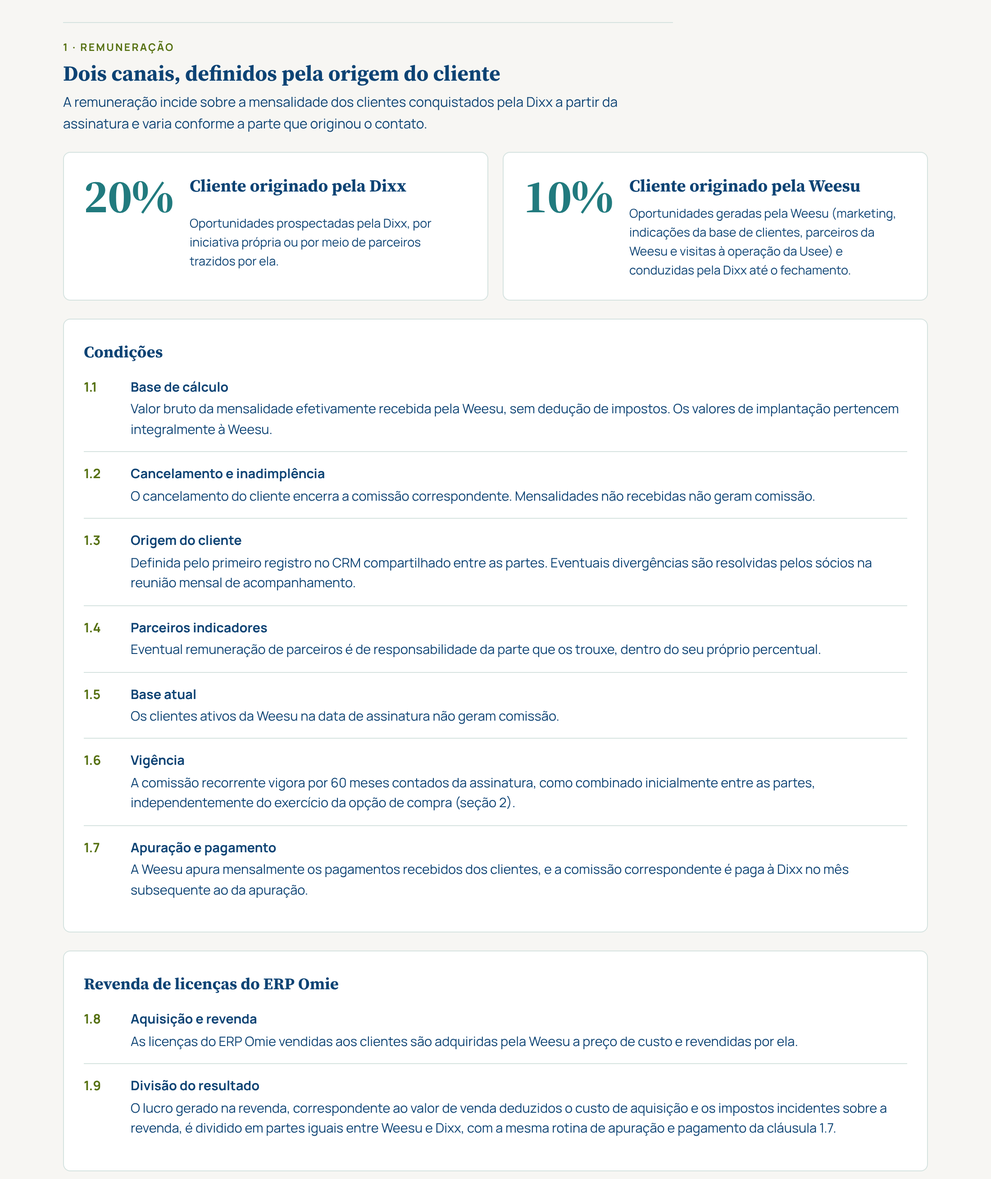
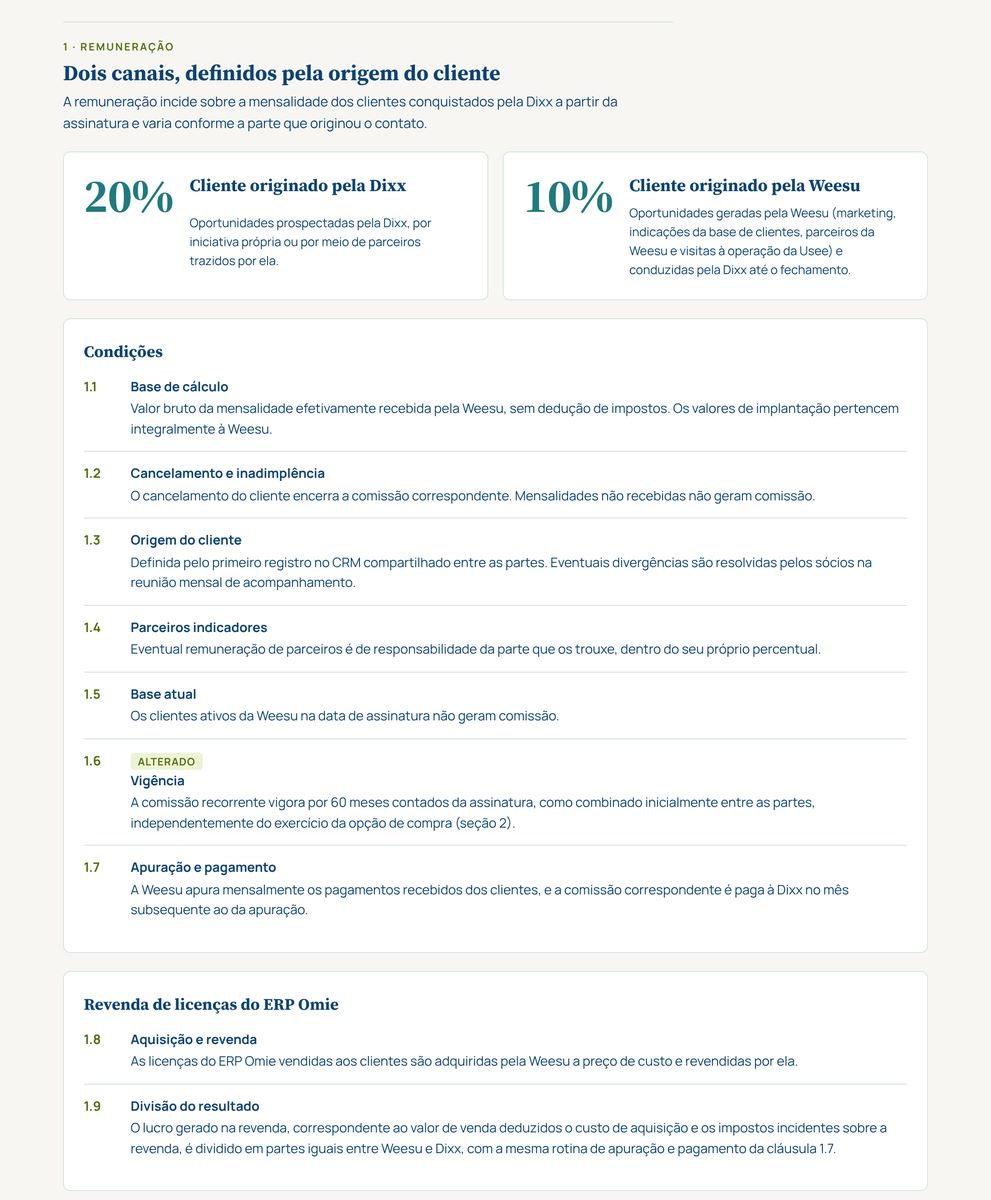
Tréplica: remove a seção Por que 60 meses e destaca as alterações frente à proposta da Weesu
Claude-Session: https://claude.ai/code/session_01Kbu7tZFgbQQE4WdNVw18PS

diff --git a/propostas/treplica-dixx.html b/propostas/treplica-dixx.html
@@ -111,7 +111,7 @@ footer{font-size:12.5px;color:var(--muted);border-top:1px solid var(--line);padd
     <button class="tab" role="tab" data-t="produtos" aria-selected="false">Produtos</button>
   </nav>
 </div></header>
-<main class="wrap" id="main"><div class="cover"><span class="eyebrow">Tréplica da Dixx</span><h2>Aceitamos o item 1 como proposto pela Weesu, com 60 meses de recorrência e aquisição de 1% ao ano</h2><p>A Dixx mantém integralmente as premissas do item 1 da proposta da Weesu: 20% sobre clientes originados pela Dixx, 10% sobre clientes originados pela Weesu, base de cálculo, regras de origem, parceiros, base atual, apuração e a revenda de licenças Omie. Propomos duas mudanças: a comissão recorrente volta a valer por 60 meses, como combinado inicialmente, e deixa de se encerrar com a opção de compra; e o gatilho único de R$ 950 mil vira cinco gatilhos anuais de 1%, o que permite às duas partes prever receita, aporte e contratações.</p></div><div class="keys"><div class="key"><b>20%</b><span>sobre a mensalidade de clientes originados pela Dixx</span></div><div class="key"><b>10%</b><span>sobre a mensalidade de clientes originados pela Weesu</span></div><div class="key"><b>1% ao ano</b><span>até 5% em 5 anos, R$ 190.000 por ano, valuation de R$ 19 mi</span></div><div class="key"><b>60 meses</b><span>de comissão recorrente, com ou sem o exercício da opção</span></div></div><div class="sec"><span class="eyebrow">1 · Remuneração</span><h3>Dois canais, definidos pela origem do cliente</h3><p>A remuneração incide sobre a mensalidade dos clientes conquistados pela Dixx a partir da assinatura e varia conforme a parte que originou o contato.</p></div><div class="two"><div class="canal"><span class="pc">20%</span><h4>Cliente originado pela Dixx</h4><p class="small">Oportunidades prospectadas pela Dixx, por iniciativa própria ou por meio de parceiros trazidos por ela.</p></div><div class="canal"><span class="pc">10%</span><h4>Cliente originado pela Weesu</h4><p class="small">Oportunidades geradas pela Weesu (marketing, indicações da base de clientes, parceiros da Weesu e visitas à operação da Usee) e conduzidas pela Dixx até o fechamento.</p></div></div><div class="card"><h4>Condições</h4><ol class="cl"><li data-n="1.1"><span><b>Base de cálculo</b>Valor bruto da mensalidade efetivamente recebida pela Weesu, sem dedução de impostos. Os valores de implantação pertencem integralmente à Weesu.</span></li><li data-n="1.2"><span><b>Cancelamento e inadimplência</b>O cancelamento do cliente encerra a comissão correspondente. Mensalidades não recebidas não geram comissão.</span></li><li data-n="1.3"><span><b>Origem do cliente</b>Definida pelo primeiro registro no CRM compartilhado entre as partes. Eventuais divergências são resolvidas pelos sócios na reunião mensal de acompanhamento.</span></li><li data-n="1.4"><span><b>Parceiros indicadores</b>Eventual remuneração de parceiros é de responsabilidade da parte que os trouxe, dentro do seu próprio percentual.</span></li><li data-n="1.5"><span><b>Base atual</b>Os clientes ativos da Weesu na data de assinatura não geram comissão.</span></li><li data-n="1.6"><span><b>Vigência</b>A comissão recorrente vigora por 60 meses contados da assinatura, como combinado inicialmente entre as partes, independentemente do exercício da opção de compra (seção 2).</span></li><li data-n="1.7"><span><b>Apuração e pagamento</b>A Weesu apura mensalmente os pagamentos recebidos dos clientes, e a comissão correspondente é paga à Dixx no mês subsequente ao da apuração.</span></li></ol></div><div class="card"><h4>Revenda de licenças do ERP Omie</h4><ol class="cl"><li data-n="1.8"><span><b>Aquisição e revenda</b>As licenças do ERP Omie vendidas aos clientes são adquiridas pela Weesu a preço de custo e revendidas por ela.</span></li><li data-n="1.9"><span><b>Divisão do resultado</b>O lucro gerado na revenda, correspondente ao valor de venda deduzidos o custo de aquisição e os impostos incidentes sobre a revenda, é dividido em partes iguais entre Weesu e Dixx, com a mesma rotina de apuração e pagamento da cláusula 1.7.</span></li></ol></div><div class="sec"><span class="eyebrow">2 · Participação societária</span><h3>Opção de compra de 5% da Weesu, em gatilhos anuais de 1%</h3><p>A Dixx poderá adquirir 5% do capital da Weesu ao valuation de R$ 19.000.000, no valor total de R$ 950.000, em cinco lotes anuais de 1% (R$ 190.000 cada). O lote de cada ano é liberado quando as comissões pagas pela Weesu à Dixx naquele ano de contrato somarem R$ 190.000. Assim, as duas partes sabem quanto e quando a participação será adquirida: a Dixx consegue prever a receita e planejar as contratações do time, e a Weesu recebe o aporte em parcelas anuais ligadas ao resultado. <b>A comissão recorrente segue até completar os 60 meses de vigência</b>, com ou sem o exercício das opções.</p></div><div class="steps"><div class="step"><span class="n">1</span><h4>Assinatura</h4><p class="small">Início da remuneração recorrente pelos dois canais e do primeiro ano de contrato.</p></div><div class="step"><span class="n">2</span><h4>Gatilho anual de R$ 190 mil</h4><p class="small">Comissões pagas no ano de contrato atingem o valor de 1% das cotas.</p></div><div class="step"><span class="n">3</span><h4>Carência de 60 dias</h4><p class="small">Prazo para a Dixx comprar o lote de 1% daquele ano.</p></div><div class="step"><span class="n">4</span><h4>5% em 5 anos</h4><p class="small">Um gatilho por ano até completar 5%. A recorrência segue até o mês 60.</p></div></div><div class="card"><h4>Condições</h4><ol class="cl"><li data-n="2.1"><span><b>Objeto e preço</b>5% do capital social da Weesu, ao valuation fixo de R$ 19.000.000, totalizando R$ 950.000, divididos em cinco lotes anuais de 1%, de R$ 190.000 cada.</span></li><li data-n="2.2"><span><b>Gatilho anual</b>O lote de 1% de cada ano de contrato se constitui quando o acumulado de comissões efetivamente pagas pela Weesu à Dixx naquele ano atingir R$ 190.000. Os anos de contrato são contados da assinatura e de cada aniversário.</span></li><li data-n="2.3"><span><b>Prazo e carência</b>Cada gatilho deve ser atingido dentro do respectivo ano de contrato. Atingido o gatilho, a Dixx dispõe de 60 dias de carência para exercer a compra do lote daquele ano.</span></li><li data-n="2.4"><span><b>Recorrência mantida</b>O exercício das opções não encerra a comissão recorrente, que segue até o fim dos 60 meses de vigência (cláusula 1.6). O fim de cada carência encerra apenas o prazo para comprar o lote daquele ano.</span></li><li data-n="2.5"><span><b>Gatilho anual não atingido</b>Não atingido o gatilho no ano de contrato, apura-se o saldo proporcional: a Dixx poderá adquirir a participação proporcional ao acumulado de comissões pagas no ano em relação a R$ 190.000 e, a seu critério, realizar o aporte complementar até completar o lote de 1%. O saldo não adquirido pode ser somado ao lote do ano seguinte, sempre ao valuation de R$ 19.000.000 e até o limite total de 5%.</span></li><li data-n="2.6"><span><b>Acordo de sócios</b>O primeiro exercício será formalizado em acordo de sócios, com regras de governança e de saída a serem negociadas entre as partes, que valem também para os lotes seguintes.</span></li></ol></div><div class="sec"><span class="eyebrow">Por que 60 meses</span><h3>Recorrência por 60 meses e 1% ao ano: a Dixx consegue prever receita e contratar</h3><p>A Dixx custeia 100% da equipe comercial. Na réplica, pelos números do plano comercial, o gatilho único de R$ 950 mil seria atingido por volta do mês 23 e a recorrência terminaria no mês 25, quando a carteira ainda está crescendo e o time recém-formado começa a produzir. Com 60 meses e gatilhos anuais, a operação se paga, cada lote de 1% é comprado com a receita do próprio ano e o time pode ser dimensionado com antecedência.</p></div><div class="card"><h4>5 anos, mesmas metas e mesmo time, mantido até o mês 60</h4><div class="scroll"><table class="t"><thead><tr><th></th><th class="r">Réplica da Weesu<br>gatilho único, recorrência até o gatilho</th><th class="r">Tréplica da Dixx<br>1% ao ano, recorrência por 60 meses</th></tr></thead><tbody><tr><td>Fim da recorrência</td><td class="r">mês 25 (nov/28)</td><td class="r">mês 60 (out/31)</td></tr><tr><td>Comissões recebidas pela Dixx</td><td class="r">R$ 1,16 mi</td><td class="r">R$ 6,84 mi</td></tr><tr><td>Custo do time comercial da Dixx</td><td class="r">R$ 4,98 mi</td><td class="r">R$ 4,98 mi</td></tr><tr class="hl"><td>Resultado da Dixx antes da compra das cotas</td><td class="r">−R$ 3,83 mi</td><td class="r">+R$ 1,85 mi</td></tr><tr><td>Maior investimento acumulado da Dixx</td><td class="r">R$ 3,83 mi, sem retorno<br><span class="small muted">desmontando o time no mês 25, ainda −R$ 0,15 mi</span></td><td class="r">R$ 275 mil, recuperado em 2028<br><span class="small muted">R$ 539 mil com a compra anual das cotas</span></td></tr><tr><td>Compra das cotas</td><td class="r">R$ 950.000 de uma vez, no mês 25</td><td class="r">R$ 190.000 por ano, em 5 anos</td></tr><tr class="hl"><td>Resultado da Dixx depois de comprar os 5%</td><td class="r">−R$ 4,78 mi</td><td class="r">+R$ 0,90 mi</td></tr><tr><td>Comissão mensal da Dixx</td><td class="r">R$ 84 mil no mês 24, depois zero</td><td class="r">sobe até R$ 237 mil no mês 60</td></tr></tbody></table></div><p class="small muted">Premissas do plano comercial da Dixx: meta de R$ 15 mil de NMRR em nov/26, crescendo 5% ao mês no ano 1; churn de 1% ao mês; time com SDR, Closer e Executivo de Negócios a salários de mercado, com encargos, crescendo até 7 pessoas no ano 5; 20% sobre a captação direta e 10% líquidos sobre as indicações. Valores nominais. Na réplica, o time é mantido até o mês 60 mesmo após o fim da recorrência.</p></div><div class="card"><h4>Calendário de aquisição: 1% ao ano</h4><div class="scroll"><table class="t"><thead><tr><th>Ano de contrato</th><th class="r">Comissões do ano</th><th class="r">Gatilho de R$ 190 mil atingido</th><th class="r">Compra</th><th class="r">Participação acumulada</th></tr></thead><tbody><tr><td>Ano 1 · nov/26 a out/27</td><td class="r">R$ 288 mil</td><td class="r">mês 10 (ago/27)</td><td class="r">1% · R$ 190.000</td><td class="r">1%</td></tr><tr><td>Ano 2 · nov/27 a out/28</td><td class="r">R$ 782 mil</td><td class="r">mês 4 (fev/28)</td><td class="r">1% · R$ 190.000</td><td class="r">2%</td></tr><tr><td>Ano 3 · nov/28 a out/29</td><td class="r">R$ 1,31 mi</td><td class="r">mês 3 (jan/29)</td><td class="r">1% · R$ 190.000</td><td class="r">3%</td></tr><tr><td>Ano 4 · nov/29 a out/30</td><td class="r">R$ 1,91 mi</td><td class="r">mês 2 (dez/29)</td><td class="r">1% · R$ 190.000</td><td class="r">4%</td></tr><tr><td>Ano 5 · nov/30 a out/31</td><td class="r">R$ 2,55 mi</td><td class="r">mês 2 (dez/30)</td><td class="r">1% · R$ 190.000</td><td class="r">5%</td></tr></tbody></table></div><p class="small muted">Pelo plano comercial, a Dixx atinge o gatilho de todos os anos, e cada vez mais cedo. Com a compra de 1% ao ano, o maior investimento acumulado da Dixx fica em R$ 539 mil e o resultado em 5 anos, já com os 5% comprados, é de +R$ 0,90 mi.</p></div><div class="note"><h4>Para a Weesu, a tréplica não muda o percentual</h4><p>A Weesu continua com 80% a 90% de cada mensalidade nova, sem custo fixo comercial, e paga só sobre mensalidade recebida. O que muda é que a Dixx consegue sustentar o time por todo o período em que ele gera os clientes.</p></div><div class="sec"><span class="eyebrow">3 · Responsabilidades</span><h3>Cada parte investe naquilo que domina</h3></div><div class="two"><div class="card"><h4>Dixx</h4><ul class="small" style="padding-left:18px;display:flex;flex-direction:column;gap:5px"><li>Estruturação e custeio integral da equipe comercial, cujo dimensionamento é decisão da Dixx</li><li>Processo comercial, CRM, metas e rotina de acompanhamento</li><li>Prospecção ativa e parcerias de originação de clientes</li><li>Condução das vendas das oportunidades geradas pela Weesu</li><li>Relatório mensal de resultados por canal</li></ul></div><div class="card"><h4>Weesu</h4><ul class="small" style="padding-left:18px;display:flex;flex-direction:column;gap:5px"><li>Produtos Seenc (WMS), Hub, Luwee e Weello e sua evolução</li><li>Marketing, marca e geração de demanda</li><li>Implantação, suporte e sucesso do cliente</li><li>Acesso à operação da Usee para visitas de clientes em negociação</li><li>Apuração e pagamento mensal das comissões</li></ul></div></div><div class="note"><h4>Próximos passos</h4><p>Apreciação desta tréplica pela Weesu, reunião entre os sócios para alinhamento dos pontos em aberto e formalização em contrato de parceria comercial com instrumento de opção de compra, elaborado pelas assessorias jurídicas das partes.</p></div><footer>Dixx · tréplica à proposta de parceria comercial da Weesu · outubro de 2026. Documento para discussão entre as partes, sem efeito contratual até a assinatura dos instrumentos definitivos.</footer></main>
+<main class="wrap" id="main"><div class="cover"><span class="eyebrow">Tréplica da Dixx</span><h2>Aceitamos o item 1 como proposto pela Weesu, com 60 meses de recorrência e aquisição de 1% ao ano</h2><p>A Dixx mantém integralmente as premissas do item 1 da proposta da Weesu: 20% sobre clientes originados pela Dixx, 10% sobre clientes originados pela Weesu, base de cálculo, regras de origem, parceiros, base atual, apuração e a revenda de licenças Omie. Propomos duas mudanças: a comissão recorrente volta a valer por 60 meses, como combinado inicialmente, e deixa de se encerrar com a opção de compra; e o gatilho único de R$ 950 mil vira cinco gatilhos anuais de 1%, o que permite às duas partes prever receita, aporte e contratações. Todo o restante da proposta da Weesu está mantido; o quadro abaixo mostra cada alteração.</p></div><div class="keys"><div class="key"><b>20%</b><span>sobre a mensalidade de clientes originados pela Dixx</span></div><div class="key"><b>10%</b><span>sobre a mensalidade de clientes originados pela Weesu</span></div><div class="key"><b>1% ao ano</b><span>até 5% em 5 anos, R$ 190.000 por ano, valuation de R$ 19 mi</span></div><div class="key"><b>60 meses</b><span>de comissão recorrente, com ou sem o exercício da opção</span></div></div><div class="card"><h4>O que muda em relação à proposta da Weesu</h4><div class="scroll"><table class="t"><thead><tr><th>Ponto</th><th>Proposta da Weesu</th><th>Tréplica da Dixx</th><th>Cláusulas</th></tr></thead><tbody><tr class="hl"><td>Vigência da recorrência</td><td>Até o exercício da opção ou o fim da carência, o que ocorrer primeiro (no máximo cerca de 26 meses)</td><td>60 meses contados da assinatura, como combinado inicialmente, com ou sem o exercício da opção</td><td>1.6 · 2.4</td></tr><tr class="hl"><td>Aquisição da participação</td><td>Gatilho único: 5% por R$ 950.000, liberado quando as comissões pagas somarem R$ 950.000 em até 24 meses</td><td>Gatilhos anuais: 1% por ano, R$ 190.000 cada, liberado quando as comissões pagas no ano de contrato somarem R$ 190.000; até 5% em 5 anos</td><td>2.1 · 2.2 · 2.3</td></tr><tr class="hl"><td>Gatilho não atingido</td><td>Saldo proporcional ao fim dos 24 meses; depois, a recorrência se encerra</td><td>Saldo proporcional ao fim de cada ano; o que não for comprado soma ao lote do ano seguinte; a recorrência continua</td><td>2.5</td></tr><tr class="hl"><td>Acordo de sócios</td><td>Formalizado no exercício da opção</td><td>Formalizado no primeiro exercício e válido para os lotes seguintes</td><td>2.6</td></tr><tr><td>Remuneração e demais condições do item 1</td><td>20% (origem Dixx) e 10% (origem Weesu); base de cálculo, cancelamento, origem, parceiros, base atual, apuração e revenda de licenças Omie</td><td>Mantidas sem alteração</td><td>1.1 a 1.5 · 1.7 a 1.9</td></tr><tr><td>Preço e valuation</td><td>5% por R$ 950.000, valuation de R$ 19.000.000</td><td>Mantidos sem alteração</td><td>2.1</td></tr><tr><td>Responsabilidades e aportes</td><td>Seção 3 e aba Aportes da Weesu e da Usee</td><td>Mantidos sem alteração</td><td>3</td></tr></tbody></table></div><p class="small muted">As cláusulas alteradas estão marcadas com a etiqueta Alterado ao longo do documento.</p></div><div class="sec"><span class="eyebrow">1 · Remuneração</span><h3>Dois canais, definidos pela origem do cliente</h3><p>A remuneração incide sobre a mensalidade dos clientes conquistados pela Dixx a partir da assinatura e varia conforme a parte que originou o contato.</p></div><div class="two"><div class="canal"><span class="pc">20%</span><h4>Cliente originado pela Dixx</h4><p class="small">Oportunidades prospectadas pela Dixx, por iniciativa própria ou por meio de parceiros trazidos por ela.</p></div><div class="canal"><span class="pc">10%</span><h4>Cliente originado pela Weesu</h4><p class="small">Oportunidades geradas pela Weesu (marketing, indicações da base de clientes, parceiros da Weesu e visitas à operação da Usee) e conduzidas pela Dixx até o fechamento.</p></div></div><div class="card"><h4>Condições</h4><ol class="cl"><li data-n="1.1"><span><b>Base de cálculo</b>Valor bruto da mensalidade efetivamente recebida pela Weesu, sem dedução de impostos. Os valores de implantação pertencem integralmente à Weesu.</span></li><li data-n="1.2"><span><b>Cancelamento e inadimplência</b>O cancelamento do cliente encerra a comissão correspondente. Mensalidades não recebidas não geram comissão.</span></li><li data-n="1.3"><span><b>Origem do cliente</b>Definida pelo primeiro registro no CRM compartilhado entre as partes. Eventuais divergências são resolvidas pelos sócios na reunião mensal de acompanhamento.</span></li><li data-n="1.4"><span><b>Parceiros indicadores</b>Eventual remuneração de parceiros é de responsabilidade da parte que os trouxe, dentro do seu próprio percentual.</span></li><li data-n="1.5"><span><b>Base atual</b>Os clientes ativos da Weesu na data de assinatura não geram comissão.</span></li><li data-n="1.6"><span><span class="tag">Alterado</span> <b>Vigência</b>A comissão recorrente vigora por 60 meses contados da assinatura, como combinado inicialmente entre as partes, independentemente do exercício da opção de compra (seção 2).</span></li><li data-n="1.7"><span><b>Apuração e pagamento</b>A Weesu apura mensalmente os pagamentos recebidos dos clientes, e a comissão correspondente é paga à Dixx no mês subsequente ao da apuração.</span></li></ol></div><div class="card"><h4>Revenda de licenças do ERP Omie</h4><ol class="cl"><li data-n="1.8"><span><b>Aquisição e revenda</b>As licenças do ERP Omie vendidas aos clientes são adquiridas pela Weesu a preço de custo e revendidas por ela.</span></li><li data-n="1.9"><span><b>Divisão do resultado</b>O lucro gerado na revenda, correspondente ao valor de venda deduzidos o custo de aquisição e os impostos incidentes sobre a revenda, é dividido em partes iguais entre Weesu e Dixx, com a mesma rotina de apuração e pagamento da cláusula 1.7.</span></li></ol></div><div class="sec"><span class="eyebrow">2 · Participação societária · alterado</span><h3>Opção de compra de 5% da Weesu, em gatilhos anuais de 1%</h3><p>A Dixx poderá adquirir 5% do capital da Weesu ao valuation de R$ 19.000.000, no valor total de R$ 950.000, em cinco lotes anuais de 1% (R$ 190.000 cada). O lote de cada ano é liberado quando as comissões pagas pela Weesu à Dixx naquele ano de contrato somarem R$ 190.000. Assim, as duas partes sabem quanto e quando a participação será adquirida: a Dixx consegue prever a receita e planejar as contratações do time, e a Weesu recebe o aporte em parcelas anuais ligadas ao resultado. <b>A comissão recorrente segue até completar os 60 meses de vigência</b>, com ou sem o exercício das opções.</p></div><div class="steps"><div class="step"><span class="n">1</span><h4>Assinatura</h4><p class="small">Início da remuneração recorrente pelos dois canais e do primeiro ano de contrato.</p></div><div class="step"><span class="n">2</span><span class="tag">Alterado</span><h4>Gatilho anual de R$ 190 mil</h4><p class="small">Comissões pagas no ano de contrato atingem o valor de 1% das cotas.</p></div><div class="step"><span class="n">3</span><h4>Carência de 60 dias</h4><p class="small">Prazo para a Dixx comprar o lote de 1% daquele ano.</p></div><div class="step"><span class="n">4</span><span class="tag">Alterado</span><h4>5% em 5 anos</h4><p class="small">Um gatilho por ano até completar 5%. A recorrência segue até o mês 60.</p></div></div><div class="card"><h4>Condições</h4><ol class="cl"><li data-n="2.1"><span><span class="tag">Alterado</span> <b>Objeto e preço</b>5% do capital social da Weesu, ao valuation fixo de R$ 19.000.000, totalizando R$ 950.000, divididos em cinco lotes anuais de 1%, de R$ 190.000 cada.</span></li><li data-n="2.2"><span><span class="tag">Alterado</span> <b>Gatilho anual</b>O lote de 1% de cada ano de contrato se constitui quando o acumulado de comissões efetivamente pagas pela Weesu à Dixx naquele ano atingir R$ 190.000. Os anos de contrato são contados da assinatura e de cada aniversário.</span></li><li data-n="2.3"><span><span class="tag">Alterado</span> <b>Prazo e carência</b>Cada gatilho deve ser atingido dentro do respectivo ano de contrato. Atingido o gatilho, a Dixx dispõe de 60 dias de carência para exercer a compra do lote daquele ano.</span></li><li data-n="2.4"><span><span class="tag">Alterado</span> <b>Recorrência mantida</b>O exercício das opções não encerra a comissão recorrente, que segue até o fim dos 60 meses de vigência (cláusula 1.6). O fim de cada carência encerra apenas o prazo para comprar o lote daquele ano.</span></li><li data-n="2.5"><span><span class="tag">Alterado</span> <b>Gatilho anual não atingido</b>Não atingido o gatilho no ano de contrato, apura-se o saldo proporcional: a Dixx poderá adquirir a participação proporcional ao acumulado de comissões pagas no ano em relação a R$ 190.000 e, a seu critério, realizar o aporte complementar até completar o lote de 1%. O saldo não adquirido pode ser somado ao lote do ano seguinte, sempre ao valuation de R$ 19.000.000 e até o limite total de 5%.</span></li><li data-n="2.6"><span><span class="tag">Alterado</span> <b>Acordo de sócios</b>O primeiro exercício será formalizado em acordo de sócios, com regras de governança e de saída a serem negociadas entre as partes, que valem também para os lotes seguintes.</span></li></ol></div><div class="sec"><span class="eyebrow">3 · Responsabilidades</span><h3>Cada parte investe naquilo que domina</h3></div><div class="two"><div class="card"><h4>Dixx</h4><ul class="small" style="padding-left:18px;display:flex;flex-direction:column;gap:5px"><li>Estruturação e custeio integral da equipe comercial, cujo dimensionamento é decisão da Dixx</li><li>Processo comercial, CRM, metas e rotina de acompanhamento</li><li>Prospecção ativa e parcerias de originação de clientes</li><li>Condução das vendas das oportunidades geradas pela Weesu</li><li>Relatório mensal de resultados por canal</li></ul></div><div class="card"><h4>Weesu</h4><ul class="small" style="padding-left:18px;display:flex;flex-direction:column;gap:5px"><li>Produtos Seenc (WMS), Hub, Luwee e Weello e sua evolução</li><li>Marketing, marca e geração de demanda</li><li>Implantação, suporte e sucesso do cliente</li><li>Acesso à operação da Usee para visitas de clientes em negociação</li><li>Apuração e pagamento mensal das comissões</li></ul></div></div><div class="note"><h4>Próximos passos</h4><p>Apreciação desta tréplica pela Weesu, reunião entre os sócios para alinhamento dos pontos em aberto e formalização em contrato de parceria comercial com instrumento de opção de compra, elaborado pelas assessorias jurídicas das partes.</p></div><footer>Dixx · tréplica à proposta de parceria comercial da Weesu · outubro de 2026. Documento para discussão entre as partes, sem efeito contratual até a assinatura dos instrumentos definitivos.</footer></main>
 <script>
 (function(){
 'use strict';
@@ -140,13 +140,22 @@ function fator(p){ var lo=0.1,hi=6; if(simular(p,hi).gat<0) return null; for(var
 function secProposta(){
   var cotas=P.valuation*P.equity, h='';
   h+='<div class="cover"><span class="eyebrow">Tréplica da Dixx</span><h2>Aceitamos o item 1 como proposto pela Weesu, com 60 meses de recorrência e aquisição de 1% ao ano</h2>'+
-   '<p>A Dixx mantém integralmente as premissas do item 1 da proposta da Weesu: '+pct(P.pDixx)+' sobre clientes originados pela Dixx, '+pct(P.pWeesu)+' sobre clientes originados pela Weesu, base de cálculo, regras de origem, parceiros, base atual, apuração e a revenda de licenças Omie. Propomos duas mudanças: a comissão recorrente volta a valer por 60 meses, como combinado inicialmente, e deixa de se encerrar com a opção de compra; e o gatilho único de R$ 950 mil vira cinco gatilhos anuais de 1%, o que permite às duas partes prever receita, aporte e contratações.</p></div>';
+   '<p>A Dixx mantém integralmente as premissas do item 1 da proposta da Weesu: '+pct(P.pDixx)+' sobre clientes originados pela Dixx, '+pct(P.pWeesu)+' sobre clientes originados pela Weesu, base de cálculo, regras de origem, parceiros, base atual, apuração e a revenda de licenças Omie. Propomos duas mudanças: a comissão recorrente volta a valer por 60 meses, como combinado inicialmente, e deixa de se encerrar com a opção de compra; e o gatilho único de R$ 950 mil vira cinco gatilhos anuais de 1%, o que permite às duas partes prever receita, aporte e contratações. Todo o restante da proposta da Weesu está mantido; o quadro abaixo mostra cada alteração.</p></div>';
   h+='<div class="keys">'+
    '<div class="key"><b>'+pct(P.pDixx)+'</b><span>sobre a mensalidade de clientes originados pela Dixx</span></div>'+
    '<div class="key"><b>'+pct(P.pWeesu)+'</b><span>sobre a mensalidade de clientes originados pela Weesu</span></div>'+
    '<div class="key"><b>1% ao ano</b><span>até '+pct(P.equity)+' em 5 anos, '+brl(cotas/5)+' por ano, valuation de '+k(P.valuation)+'</span></div>'+
    '<div class="key"><b>60 meses</b><span>de comissão recorrente, com ou sem o exercício da opção</span></div></div>';
 
+  h+='<div class="card"><h4>O que muda em relação à proposta da Weesu</h4><div class="scroll"><table class="t"><thead><tr><th>Ponto</th><th>Proposta da Weesu</th><th>Tréplica da Dixx</th><th>Cláusulas</th></tr></thead><tbody>'+
+   '<tr class="hl"><td>Vigência da recorrência</td><td>Até o exercício da opção ou o fim da carência, o que ocorrer primeiro (no máximo cerca de 26 meses)</td><td>60 meses contados da assinatura, como combinado inicialmente, com ou sem o exercício da opção</td><td>1.6 · 2.4</td></tr>'+
+   '<tr class="hl"><td>Aquisição da participação</td><td>Gatilho único: '+pct(P.equity)+' por '+brl(cotas)+', liberado quando as comissões pagas somarem '+brl(P.teto)+' em até '+P.prazo+' meses</td><td>Gatilhos anuais: 1% por ano, '+brl(cotas/5)+' cada, liberado quando as comissões pagas no ano de contrato somarem '+brl(cotas/5)+'; até '+pct(P.equity)+' em 5 anos</td><td>2.1 · 2.2 · 2.3</td></tr>'+
+   '<tr class="hl"><td>Gatilho não atingido</td><td>Saldo proporcional ao fim dos '+P.prazo+' meses; depois, a recorrência se encerra</td><td>Saldo proporcional ao fim de cada ano; o que não for comprado soma ao lote do ano seguinte; a recorrência continua</td><td>2.5</td></tr>'+
+   '<tr class="hl"><td>Acordo de sócios</td><td>Formalizado no exercício da opção</td><td>Formalizado no primeiro exercício e válido para os lotes seguintes</td><td>2.6</td></tr>'+
+   '<tr><td>Remuneração e demais condições do item 1</td><td>'+pct(P.pDixx)+' (origem Dixx) e '+pct(P.pWeesu)+' (origem Weesu); base de cálculo, cancelamento, origem, parceiros, base atual, apuração e revenda de licenças Omie</td><td>Mantidas sem alteração</td><td>1.1 a 1.5 · 1.7 a 1.9</td></tr>'+
+   '<tr><td>Preço e valuation</td><td>'+pct(P.equity)+' por '+brl(cotas)+', valuation de '+brl(P.valuation)+'</td><td>Mantidos sem alteração</td><td>2.1</td></tr>'+
+   '<tr><td>Responsabilidades e aportes</td><td>Seção 3 e aba Aportes da Weesu e da Usee</td><td>Mantidos sem alteração</td><td>3</td></tr>'+
+   '</tbody></table></div><p class="small muted">As cláusulas alteradas estão marcadas com a etiqueta Alterado ao longo do documento.</p></div>';
   h+='<div class="sec"><span class="eyebrow">1 · Remuneração</span><h3>Dois canais, definidos pela origem do cliente</h3><p>A remuneração incide sobre a mensalidade dos clientes conquistados pela Dixx a partir da assinatura e varia conforme a parte que originou o contato.</p></div>';
   h+='<div class="two">'+
    '<div class="canal"><span class="pc">'+pct(P.pDixx)+'</span><h4>Cliente originado pela Dixx</h4><p class="small">Oportunidades prospectadas pela Dixx, por iniciativa própria ou por meio de parceiros trazidos por ela.</p></div>'+
@@ -157,41 +166,26 @@ function secProposta(){
    '<li data-n="1.3"><span><b>Origem do cliente</b>Definida pelo primeiro registro no CRM compartilhado entre as partes. Eventuais divergências são resolvidas pelos sócios na reunião mensal de acompanhamento.</span></li>'+
    '<li data-n="1.4"><span><b>Parceiros indicadores</b>Eventual remuneração de parceiros é de responsabilidade da parte que os trouxe, dentro do seu próprio percentual.</span></li>'+
    '<li data-n="1.5"><span><b>Base atual</b>Os clientes ativos da Weesu na data de assinatura não geram comissão.</span></li>'+
-   '<li data-n="1.6"><span><b>Vigência</b>A comissão recorrente vigora por 60 meses contados da assinatura, como combinado inicialmente entre as partes, independentemente do exercício da opção de compra (seção 2).</span></li>'+
+   '<li data-n="1.6"><span><span class="tag">Alterado</span> <b>Vigência</b>A comissão recorrente vigora por 60 meses contados da assinatura, como combinado inicialmente entre as partes, independentemente do exercício da opção de compra (seção 2).</span></li>'+
    '<li data-n="1.7"><span><b>Apuração e pagamento</b>A Weesu apura mensalmente os pagamentos recebidos dos clientes, e a comissão correspondente é paga à Dixx no mês subsequente ao da apuração.</span></li></ol></div>';
   h+='<div class="card"><h4>Revenda de licenças do ERP Omie</h4><ol class="cl">'+
    '<li data-n="1.8"><span><b>Aquisição e revenda</b>As licenças do ERP Omie vendidas aos clientes são adquiridas pela Weesu a preço de custo e revendidas por ela.</span></li>'+
    '<li data-n="1.9"><span><b>Divisão do resultado</b>O lucro gerado na revenda, correspondente ao valor de venda deduzidos o custo de aquisição e os impostos incidentes sobre a revenda, é dividido em partes iguais entre Weesu e Dixx, com a mesma rotina de apuração e pagamento da cláusula 1.7.</span></li></ol></div>';
 
   var lote=cotas/5;
-  h+='<div class="sec"><span class="eyebrow">2 · Participação societária</span><h3>Opção de compra de '+pct(P.equity)+' da Weesu, em gatilhos anuais de 1%</h3><p>A Dixx poderá adquirir '+pct(P.equity)+' do capital da Weesu ao valuation de '+brl(P.valuation)+', no valor total de '+brl(cotas)+', em cinco lotes anuais de 1% ('+brl(lote)+' cada). O lote de cada ano é liberado quando as comissões pagas pela Weesu à Dixx naquele ano de contrato somarem '+brl(lote)+'. Assim, as duas partes sabem quanto e quando a participação será adquirida: a Dixx consegue prever a receita e planejar as contratações do time, e a Weesu recebe o aporte em parcelas anuais ligadas ao resultado. <b>A comissão recorrente segue até completar os 60 meses de vigência</b>, com ou sem o exercício das opções.</p></div>';
+  h+='<div class="sec"><span class="eyebrow">2 · Participação societária · alterado</span><h3>Opção de compra de '+pct(P.equity)+' da Weesu, em gatilhos anuais de 1%</h3><p>A Dixx poderá adquirir '+pct(P.equity)+' do capital da Weesu ao valuation de '+brl(P.valuation)+', no valor total de '+brl(cotas)+', em cinco lotes anuais de 1% ('+brl(lote)+' cada). O lote de cada ano é liberado quando as comissões pagas pela Weesu à Dixx naquele ano de contrato somarem '+brl(lote)+'. Assim, as duas partes sabem quanto e quando a participação será adquirida: a Dixx consegue prever a receita e planejar as contratações do time, e a Weesu recebe o aporte em parcelas anuais ligadas ao resultado. <b>A comissão recorrente segue até completar os 60 meses de vigência</b>, com ou sem o exercício das opções.</p></div>';
   h+='<div class="steps">'+
    '<div class="step"><span class="n">1</span><h4>Assinatura</h4><p class="small">Início da remuneração recorrente pelos dois canais e do primeiro ano de contrato.</p></div>'+
-   '<div class="step"><span class="n">2</span><h4>Gatilho anual de '+k(lote)+'</h4><p class="small">Comissões pagas no ano de contrato atingem o valor de 1% das cotas.</p></div>'+
+   '<div class="step"><span class="n">2</span><span class="tag">Alterado</span><h4>Gatilho anual de '+k(lote)+'</h4><p class="small">Comissões pagas no ano de contrato atingem o valor de 1% das cotas.</p></div>'+
    '<div class="step"><span class="n">3</span><h4>Carência de 60 dias</h4><p class="small">Prazo para a Dixx comprar o lote de 1% daquele ano.</p></div>'+
-   '<div class="step"><span class="n">4</span><h4>'+pct(P.equity)+' em 5 anos</h4><p class="small">Um gatilho por ano até completar '+pct(P.equity)+'. A recorrência segue até o mês 60.</p></div></div>';
+   '<div class="step"><span class="n">4</span><span class="tag">Alterado</span><h4>'+pct(P.equity)+' em 5 anos</h4><p class="small">Um gatilho por ano até completar '+pct(P.equity)+'. A recorrência segue até o mês 60.</p></div></div>';
   h+='<div class="card"><h4>Condições</h4><ol class="cl">'+
-   '<li data-n="2.1"><span><b>Objeto e preço</b>'+pct(P.equity)+' do capital social da Weesu, ao valuation fixo de '+brl(P.valuation)+', totalizando '+brl(cotas)+', divididos em cinco lotes anuais de 1%, de '+brl(lote)+' cada.</span></li>'+
-   '<li data-n="2.2"><span><b>Gatilho anual</b>O lote de 1% de cada ano de contrato se constitui quando o acumulado de comissões efetivamente pagas pela Weesu à Dixx naquele ano atingir '+brl(lote)+'. Os anos de contrato são contados da assinatura e de cada aniversário.</span></li>'+
-   '<li data-n="2.3"><span><b>Prazo e carência</b>Cada gatilho deve ser atingido dentro do respectivo ano de contrato. Atingido o gatilho, a Dixx dispõe de 60 dias de carência para exercer a compra do lote daquele ano.</span></li>'+
-   '<li data-n="2.4"><span><b>Recorrência mantida</b>O exercício das opções não encerra a comissão recorrente, que segue até o fim dos 60 meses de vigência (cláusula 1.6). O fim de cada carência encerra apenas o prazo para comprar o lote daquele ano.</span></li>'+
-   '<li data-n="2.5"><span><b>Gatilho anual não atingido</b>Não atingido o gatilho no ano de contrato, apura-se o saldo proporcional: a Dixx poderá adquirir a participação proporcional ao acumulado de comissões pagas no ano em relação a '+brl(lote)+' e, a seu critério, realizar o aporte complementar até completar o lote de 1%. O saldo não adquirido pode ser somado ao lote do ano seguinte, sempre ao valuation de '+brl(P.valuation)+' e até o limite total de '+pct(P.equity)+'.</span></li>'+
-   '<li data-n="2.6"><span><b>Acordo de sócios</b>O primeiro exercício será formalizado em acordo de sócios, com regras de governança e de saída a serem negociadas entre as partes, que valem também para os lotes seguintes.</span></li></ol></div>';
-  h+='<div class="sec"><span class="eyebrow">Por que 60 meses</span><h3>Recorrência por 60 meses e 1% ao ano: a Dixx consegue prever receita e contratar</h3><p>A Dixx custeia 100% da equipe comercial. Na réplica, pelos números do plano comercial, o gatilho único de '+k(P.teto)+' seria atingido por volta do mês 23 e a recorrência terminaria no mês 25, quando a carteira ainda está crescendo e o time recém-formado começa a produzir. Com 60 meses e gatilhos anuais, a operação se paga, cada lote de 1% é comprado com a receita do próprio ano e o time pode ser dimensionado com antecedência.</p></div>';
-  h+='<div class="card"><h4>5 anos, mesmas metas e mesmo time, mantido até o mês 60</h4><div class="scroll"><table class="t"><thead><tr><th></th><th class="r">Réplica da Weesu<br>gatilho único, recorrência até o gatilho</th><th class="r">Tréplica da Dixx<br>1% ao ano, recorrência por 60 meses</th></tr></thead><tbody>'+
-   '<tr><td>Fim da recorrência</td><td class="r">mês 25 (nov/28)</td><td class="r">mês 60 (out/31)</td></tr>'+
-   '<tr><td>Comissões recebidas pela Dixx</td><td class="r">R$ 1,16 mi</td><td class="r">R$ 6,84 mi</td></tr>'+
-   '<tr><td>Custo do time comercial da Dixx</td><td class="r">R$ 4,98 mi</td><td class="r">R$ 4,98 mi</td></tr>'+
-   '<tr class="hl"><td>Resultado da Dixx antes da compra das cotas</td><td class="r">−R$ 3,83 mi</td><td class="r">+R$ 1,85 mi</td></tr>'+
-   '<tr><td>Maior investimento acumulado da Dixx</td><td class="r">R$ 3,83 mi, sem retorno<br><span class="small muted">desmontando o time no mês 25, ainda −R$ 0,15 mi</span></td><td class="r">R$ 275 mil, recuperado em 2028<br><span class="small muted">R$ 539 mil com a compra anual das cotas</span></td></tr>'+
-   '<tr><td>Compra das cotas</td><td class="r">'+brl(cotas)+' de uma vez, no mês 25</td><td class="r">'+brl(cotas/5)+' por ano, em 5 anos</td></tr>'+
-   '<tr class="hl"><td>Resultado da Dixx depois de comprar os '+pct(P.equity)+'</td><td class="r">−R$ 4,78 mi</td><td class="r">+R$ 0,90 mi</td></tr>'+
-   '<tr><td>Comissão mensal da Dixx</td><td class="r">R$ 84 mil no mês 24, depois zero</td><td class="r">sobe até R$ 237 mil no mês 60</td></tr>'+
-   '</tbody></table></div><p class="small muted">Premissas do plano comercial da Dixx: meta de R$ 15 mil de NMRR em nov/26, crescendo 5% ao mês no ano 1; churn de 1% ao mês; time com SDR, Closer e Executivo de Negócios a salários de mercado, com encargos, crescendo até 7 pessoas no ano 5; '+pct(P.pDixx)+' sobre a captação direta e '+pct(P.pWeesu)+' líquidos sobre as indicações. Valores nominais. Na réplica, o time é mantido até o mês 60 mesmo após o fim da recorrência.</p></div>'+
-   '<div class="card"><h4>Calendário de aquisição: 1% ao ano</h4><div class="scroll"><table class="t"><thead><tr><th>Ano de contrato</th><th class="r">Comissões do ano</th><th class="r">Gatilho de '+k(cotas/5)+' atingido</th><th class="r">Compra</th><th class="r">Participação acumulada</th></tr></thead><tbody>'+
-   [['Ano 1 · nov/26 a out/27','R$ 288 mil','mês 10 (ago/27)'],['Ano 2 · nov/27 a out/28','R$ 782 mil','mês 4 (fev/28)'],['Ano 3 · nov/28 a out/29','R$ 1,31 mi','mês 3 (jan/29)'],['Ano 4 · nov/29 a out/30','R$ 1,91 mi','mês 2 (dez/29)'],['Ano 5 · nov/30 a out/31','R$ 2,55 mi','mês 2 (dez/30)']].map(function(r,i){ return '<tr><td>'+r[0]+'</td><td class="r">'+r[1]+'</td><td class="r">'+r[2]+'</td><td class="r">1% · '+brl(cotas/5)+'</td><td class="r">'+(i+1)+'%</td></tr>'; }).join('')+
-   '</tbody></table></div><p class="small muted">Pelo plano comercial, a Dixx atinge o gatilho de todos os anos, e cada vez mais cedo. Com a compra de 1% ao ano, o maior investimento acumulado da Dixx fica em R$ 539 mil e o resultado em 5 anos, já com os '+pct(P.equity)+' comprados, é de +R$ 0,90 mi.</p>'+
-   '</div><div class="note"><h4>Para a Weesu, a tréplica não muda o percentual</h4><p>A Weesu continua com '+pct(1-P.pDixx)+' a '+pct(1-P.pWeesu)+' de cada mensalidade nova, sem custo fixo comercial, e paga só sobre mensalidade recebida. O que muda é que a Dixx consegue sustentar o time por todo o período em que ele gera os clientes.</p></div>';
+   '<li data-n="2.1"><span><span class="tag">Alterado</span> <b>Objeto e preço</b>'+pct(P.equity)+' do capital social da Weesu, ao valuation fixo de '+brl(P.valuation)+', totalizando '+brl(cotas)+', divididos em cinco lotes anuais de 1%, de '+brl(lote)+' cada.</span></li>'+
+   '<li data-n="2.2"><span><span class="tag">Alterado</span> <b>Gatilho anual</b>O lote de 1% de cada ano de contrato se constitui quando o acumulado de comissões efetivamente pagas pela Weesu à Dixx naquele ano atingir '+brl(lote)+'. Os anos de contrato são contados da assinatura e de cada aniversário.</span></li>'+
+   '<li data-n="2.3"><span><span class="tag">Alterado</span> <b>Prazo e carência</b>Cada gatilho deve ser atingido dentro do respectivo ano de contrato. Atingido o gatilho, a Dixx dispõe de 60 dias de carência para exercer a compra do lote daquele ano.</span></li>'+
+   '<li data-n="2.4"><span><span class="tag">Alterado</span> <b>Recorrência mantida</b>O exercício das opções não encerra a comissão recorrente, que segue até o fim dos 60 meses de vigência (cláusula 1.6). O fim de cada carência encerra apenas o prazo para comprar o lote daquele ano.</span></li>'+
+   '<li data-n="2.5"><span><span class="tag">Alterado</span> <b>Gatilho anual não atingido</b>Não atingido o gatilho no ano de contrato, apura-se o saldo proporcional: a Dixx poderá adquirir a participação proporcional ao acumulado de comissões pagas no ano em relação a '+brl(lote)+' e, a seu critério, realizar o aporte complementar até completar o lote de 1%. O saldo não adquirido pode ser somado ao lote do ano seguinte, sempre ao valuation de '+brl(P.valuation)+' e até o limite total de '+pct(P.equity)+'.</span></li>'+
+   '<li data-n="2.6"><span><span class="tag">Alterado</span> <b>Acordo de sócios</b>O primeiro exercício será formalizado em acordo de sócios, com regras de governança e de saída a serem negociadas entre as partes, que valem também para os lotes seguintes.</span></li></ol></div>';
   h+='<div class="sec"><span class="eyebrow">3 · Responsabilidades</span><h3>Cada parte investe naquilo que domina</h3></div>';
   h+='<div class="two"><div class="card"><h4>Dixx</h4><ul class="small" style="padding-left:18px;display:flex;flex-direction:column;gap:5px"><li>Estruturação e custeio integral da equipe comercial, cujo dimensionamento é decisão da Dixx</li><li>Processo comercial, CRM, metas e rotina de acompanhamento</li><li>Prospecção ativa e parcerias de originação de clientes</li><li>Condução das vendas das oportunidades geradas pela Weesu</li><li>Relatório mensal de resultados por canal</li></ul></div>'+
    '<div class="card"><h4>Weesu</h4><ul class="small" style="padding-left:18px;display:flex;flex-direction:column;gap:5px"><li>Produtos Seenc (WMS), Hub, Luwee e Weello e sua evolução</li><li>Marketing, marca e geração de demanda</li><li>Implantação, suporte e sucesso do cliente</li><li>Acesso à operação da Usee para visitas de clientes em negociação</li><li>Apuração e pagamento mensal das comissões</li></ul></div></div>';
